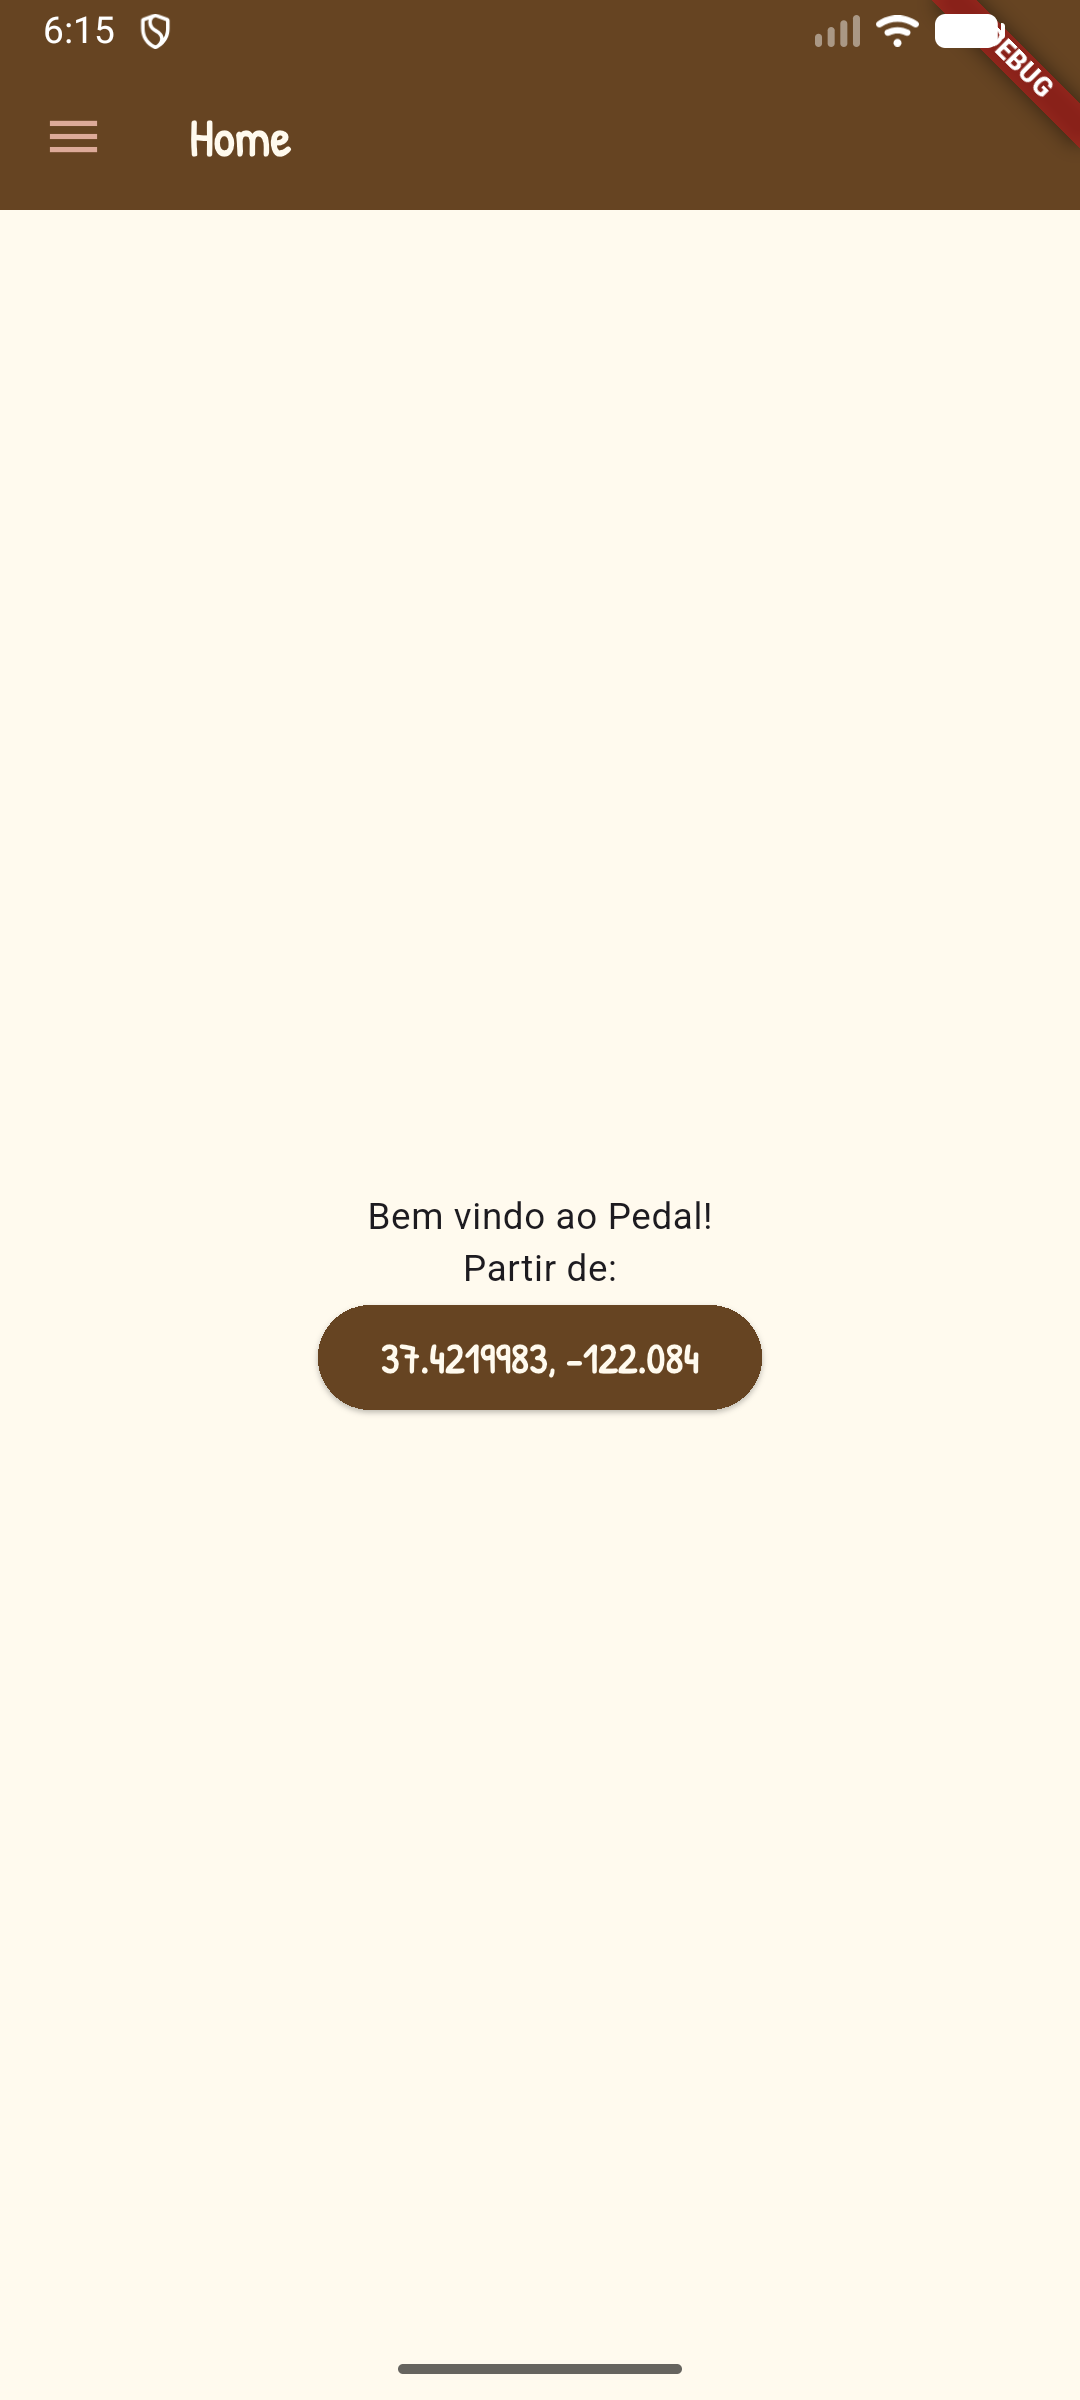
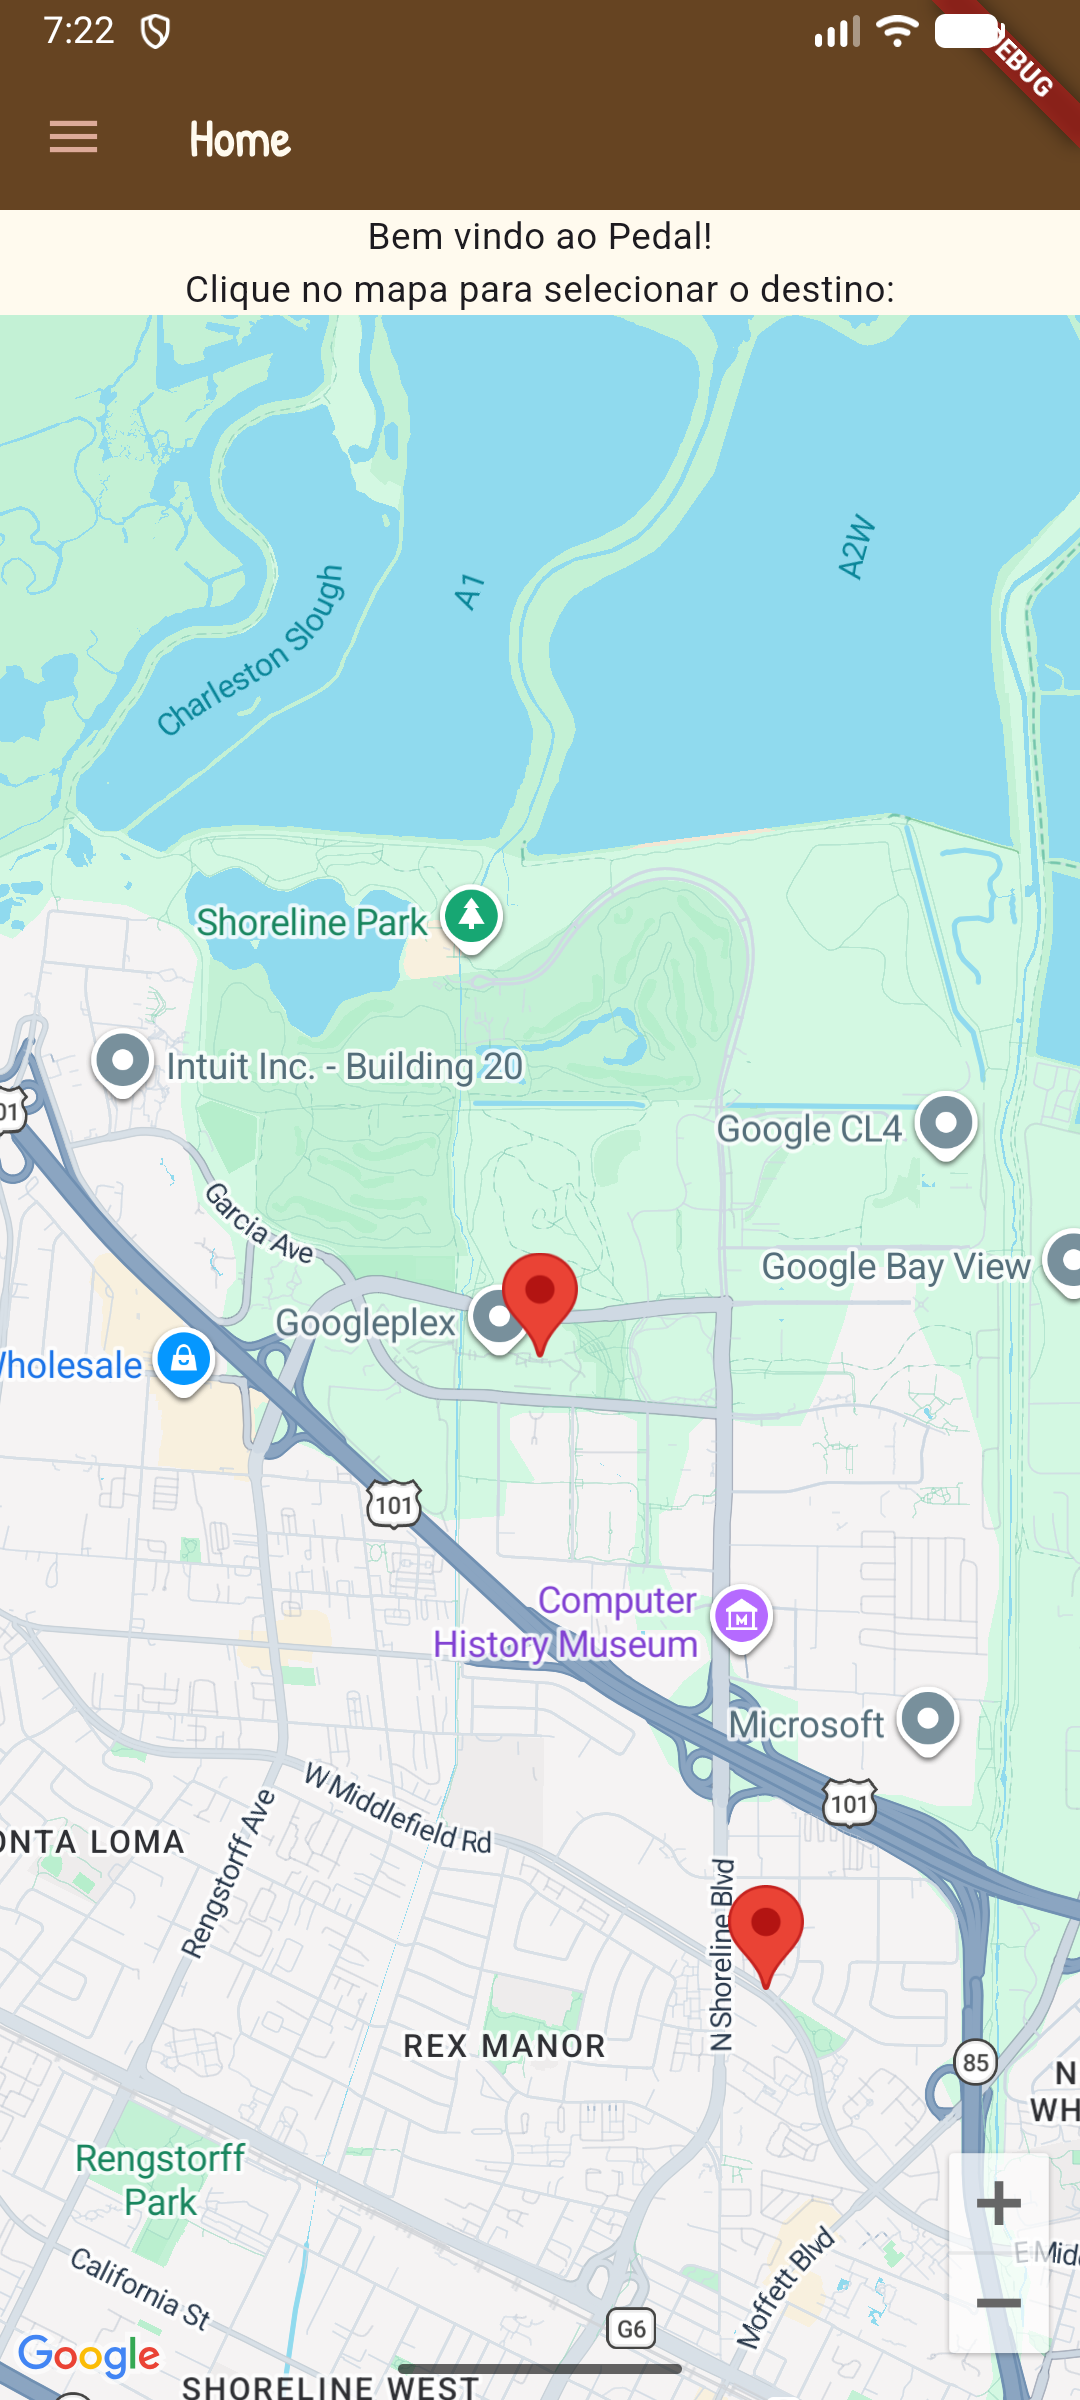
mapa

diff --git a/lib/ui/home.dart b/lib/ui/home.dart
@@ -14,17 +14,13 @@ class Home extends StatefulWidget {
 }
 
 class _HomeState extends State<Home> {
-  //Latitude e Longitude de São Paulo, Brasil, como valores padrão caso a localização não seja obtida.
-  String latitude = "-23.550520";
-  String longitude = "-46.633308";
-  String origem = "";
-  LatLng? _pontoClicado;
+  //_latitude e _longitude de São Paulo, Brasil, como valores padrão caso a localização não seja obtida.
+  LatLng _origem = LatLng(-23.550520, -46.633308);
+  LatLng? _destino;
 
   late final coordenadasFuture = obterCoordenadasGPS().then((position) {
     if (position != null) {
-      latitude = position.latitude.toString();
-      longitude = position.longitude.toString();
-      origem = '$latitude, $longitude';
+      _origem = LatLng(position.latitude, position.longitude);
     }
   });
 
@@ -75,44 +71,43 @@ class _HomeState extends State<Home> {
           mainAxisAlignment: MainAxisAlignment.center,
           children: [
             Text("Bem vindo ao Pedal!"),
-            Text("Partir de:"),
+            Text("Clique no mapa para selecionar o destino:"),
             FutureBuilder<Position?>(
               future: coordenadasFuture,
               builder: (context, snapshot) {
                 if (snapshot.connectionState != ConnectionState.done) {
                   return CircularProgressIndicator();
                 }
-                return ElevatedButton(onPressed: () {}, child: Text(origem));
-              },
-            ),
-            Expanded(
-              child: GoogleMap(
-                initialCameraPosition: CameraPosition(
-                  target: LatLng(-23.550520, -46.633308),
-                  zoom: 14.0,
-                ),
-                onTap: (LatLng latLng) {
-                  // Callback acionado ao clicar em qualquer lugar do mapa
-                  setState(() {
-                    _pontoClicado = latLng;
-                  });
-                  ScaffoldMessenger.of(context).showSnackBar(
-                    SnackBar(
-                      content: Text(
-                        'Latitude: ${latLng.latitude}, Longitude: ${latLng.longitude}',
-                      ),
+                return Expanded(
+                  child: GoogleMap(
+                    initialCameraPosition: CameraPosition(
+                      target: _origem,
+                      zoom: 14.0,
                     ),
-                  );
-                },
-                markers: _pontoClicado == null
-                    ? {}
-                    : {
-                        Marker(
-                          markerId: const MarkerId('clicado'),
-                          position: _pontoClicado!,
+                    onTap: (LatLng latLng) {
+                      // Callback acionado ao clicar em qualquer lugar do mapa
+                      setState(() {
+                        _destino = latLng;
+                      });
+                      ScaffoldMessenger.of(context).showSnackBar(
+                        SnackBar(
+                          content: Text(
+                            '_latitude: ${latLng.latitude}, _longitude: ${latLng.longitude}',
+                          ),
                         ),
-                      },
-              ),
+                      );
+                    },
+                    markers: {
+                      Marker(markerId: MarkerId('origem'), position: _origem),
+                      if (_destino != null)
+                        Marker(
+                          markerId: MarkerId('clicado'),
+                          position: _destino!,
+                        ),
+                    },
+                  ),
+                );
+              },
             ),
           ],
         ),
